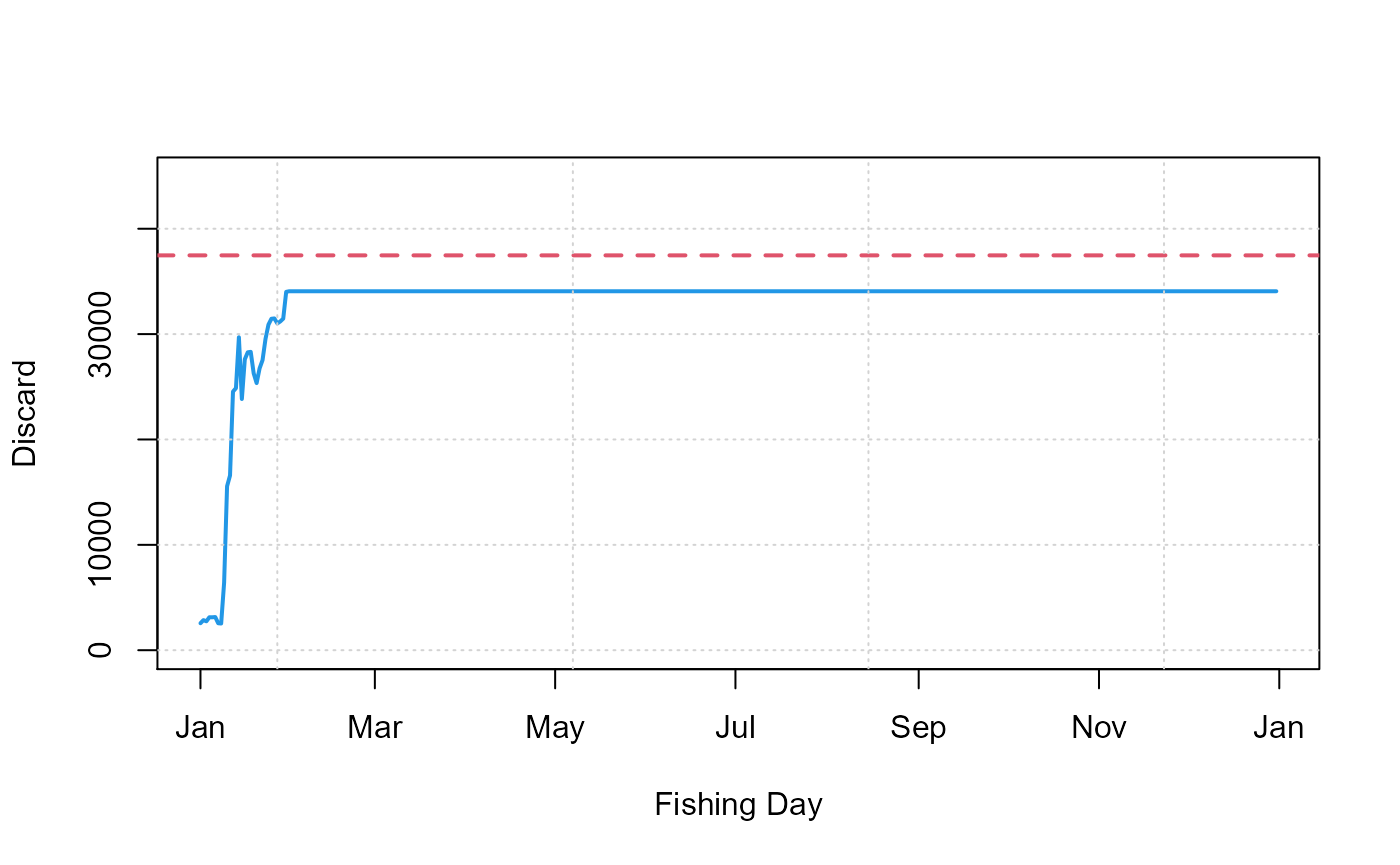
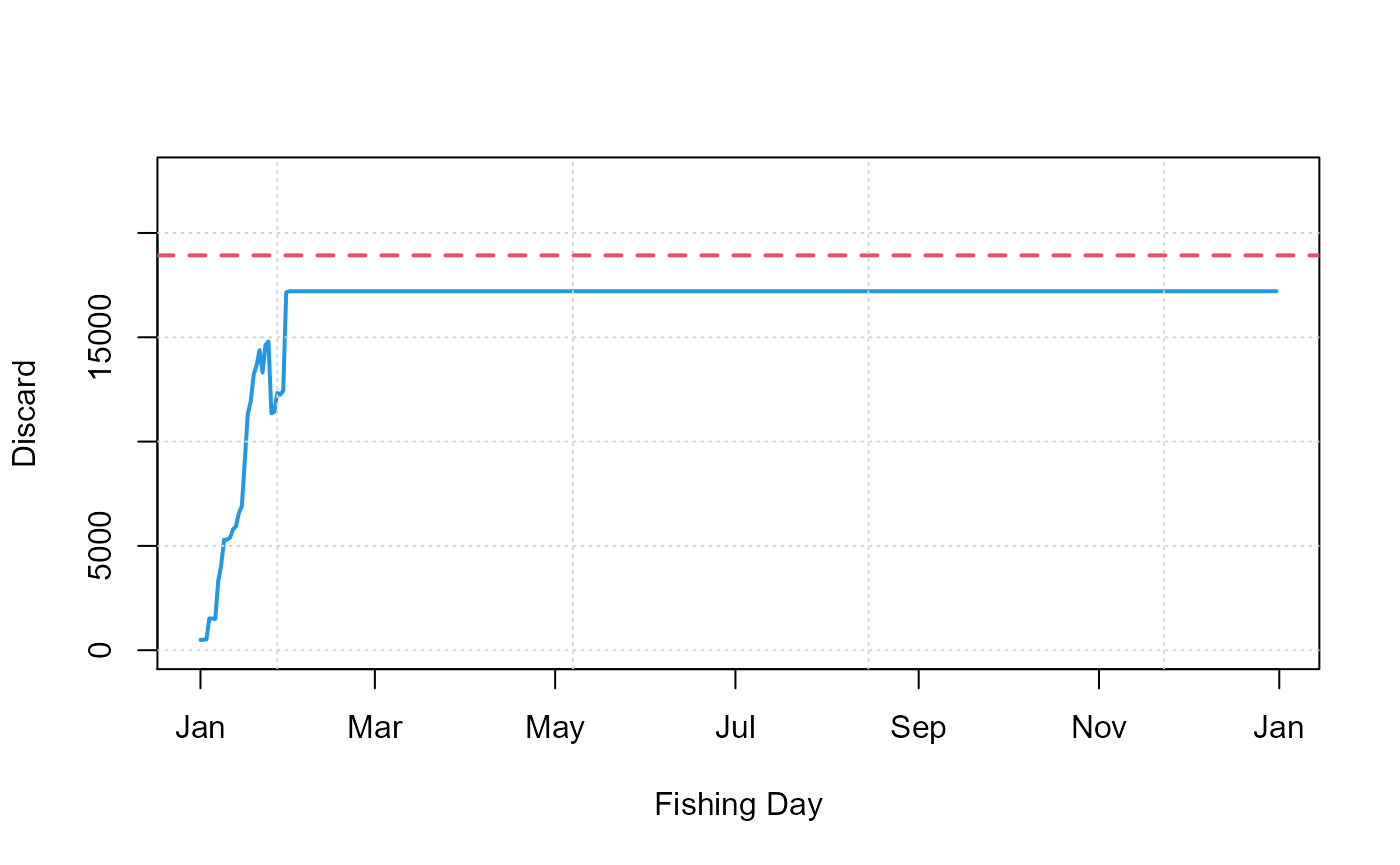
more pkgdown tweaks

diff --git a/docs/articles/eflalo_demo.html b/docs/articles/eflalo_demo.html
@@ -136,7 +136,7 @@
 ##  $ LE_UNIT      : Factor w/ 1 level "KWDAYS": 1 1 1 1 1 1 1 1 1 1 ...
 ##  $ LE_EFF       : num  139.2 148.1 23.9 197.1 72.9 ...
 ##  $ LE_EFF_VMS   : logi  NA NA NA NA NA NA ...
-##  $ OBSFLAG      : num  0 0 0 1 0 0 0 0 0 0 ...
+##  $ OBSFLAG      : num  1 0 0 0 1 0 0 0 0 0 ...
 ##  $ FT_REF2      : int  1 2 3 4 5 6 7 8 9 10 ...
 ##  $ NESPP3       : chr  "LE_KG_ANE" "LE_KG_ANE" "LE_KG_ANE" "LE_KG_ANE" ...
 ##  $ LIVE_POUNDS  : num  0 0 0 0 0 0 0 0 0 0 ...
@@ -191,8 +191,8 @@
 , row.names <span class="op">=</span> <span class="fu"><a href="https://rdrr.io/r/base/c.html">c</a></span><span class="op">(</span><span class="st">'y0'</span>,<span class="st">'y1'</span><span class="op">)</span>
 <span class="op">)</span></code></pre></div>
 <pre><code>##               r     CVTOT
-## y0 7.161076e-05 0.2784574
-## y1 3.496988e-04 0.4428961</code></pre>
+## y0 8.878681e-05 0.6385114
+## y1 3.901893e-05 0.2899111</code></pre>
 </div>
 <div id="run-with-a-transition-rate" class="section level2">
 <h2 class="hasAnchor">
@@ -202,7 +202,7 @@
     <span class="va">dest</span> <span class="op">&lt;-</span> <span class="fu"><a href="../reference/cochran.trans.calc.html">cochran.trans.calc</a></span><span class="op">(</span>bydat_focal <span class="op">=</span> <span class="va">bydat_focal</span>, trips_focal <span class="op">=</span> <span class="va">trips_focal</span>, bydat_prev <span class="op">=</span> <span class="va">bydat_prev</span>, trips_prev <span class="op">=</span> <span class="va">trips_prev</span>, CV_target <span class="op">=</span><span class="fl">.3</span>, strata_name <span class="op">=</span> <span class="st">"STRATA"</span>, strata_complete <span class="op">=</span> <span class="va">strata_complete</span>, time_span <span class="op">=</span> <span class="fu"><a href="https://rdrr.io/r/base/c.html">c</a></span><span class="op">(</span><span class="va">minday</span>, <span class="fl">365</span><span class="op">)</span><span class="op">)</span>
 
 <span class="fu"><a href="https://rdrr.io/r/utils/str.html">str</a></span><span class="op">(</span><span class="va">dest</span><span class="op">$</span><span class="va">D</span><span class="op">)</span></code></pre></div>
-<p>num [1:20, 1:365] 0 0 0 0 0 … - attr(*, “dimnames”)=List of 2 ..$ : chr [1:20] “DRB_MOL_0_0_0” “FPO_CRU_0_0_0” “GNS_DEF_0_0_0” “GNS_DEF_100-119_0_0” … ..$ : chr [1:365] “1” “2” “3” “4” …</p>
+<p>num [1:20, 1:365] 0 0 0 9.62 0 … - attr(*, “dimnames”)=List of 2 ..$ : chr [1:20] “DRB_MOL_0_0_0” “FPO_CRU_0_0_0” “GNS_DEF_0_0_0” “GNS_DEF_100-119_0_0” … ..$ : chr [1:365] “1” “2” “3” “4” …</p>
 </div>
 <div id="plot-the-total-discard" class="section level2">
 <h2 class="hasAnchor">

diff --git a/docs/index.html b/docs/index.html
@@ -85,7 +85,7 @@
 </div>
 <div id="section" class="section level1">
 <h1 class="hasAnchor">
-<a href="#section" class="anchor"></a><img src="reference/figures/logo.png" align="right">
+<a href="#section" class="anchor"></a><img src="docs/apple-touch-icon-180x180.png" align="right">
 </h1>
 <div id="an-r-package-for-calculating-discard-sing-the-cochran-ratio-estimator" class="section level2">
 <h2 class="hasAnchor">

diff --git a/docs/reference/cochran.calc.ss.html b/docs/reference/cochran.calc.ss.html
@@ -198,7 +198,7 @@
 #&gt;         REQ_COV = req_samples/l_N)
 #&gt;     return(output)
 #&gt; }
-#&gt; &lt;bytecode: 0x000000002cf0e730&gt;
+#&gt; &lt;bytecode: 0x000000002cf04208&gt;
 #&gt; &lt;environment: namespace:discaRd&gt;</div></pre>
   </div>
   <div class="col-md-3 hidden-xs hidden-sm" id="pkgdown-sidebar">

diff --git a/docs/reference/cochran.trans.calc.html b/docs/reference/cochran.trans.calc.html
@@ -285,7 +285,7 @@ either number of trips (<code>trans_method='ntrips'</code>)</p></td>
 #&gt;         return(list(D = daily.D))
 #&gt;     }
 #&gt; }
-#&gt; &lt;bytecode: 0x000000002faf3b00&gt;
+#&gt; &lt;bytecode: 0x000000002fb07278&gt;
 #&gt; &lt;environment: namespace:discaRd&gt;</div></pre>
   </div>
   <div class="col-md-3 hidden-xs hidden-sm" id="pkgdown-sidebar">

diff --git a/docs/reference/get.cochran.ss.by.strat.html b/docs/reference/get.cochran.ss.by.strat.html
@@ -236,7 +236,7 @@ desired from the output (including unobserved).</p></td>
 #&gt;     }
 #&gt;     list(C = C, tout = tout, CVTOT = CVTOT, rTOT = rTOT)
 #&gt; }
-#&gt; &lt;bytecode: 0x00000000120fd740&gt;
+#&gt; &lt;bytecode: 0x00000000309e2320&gt;
 #&gt; &lt;environment: namespace:discaRd&gt;</div></pre>
   </div>
   <div class="col-md-3 hidden-xs hidden-sm" id="pkgdown-sidebar">

diff --git a/docs/reference/get.weighted.cv.html b/docs/reference/get.weighted.cv.html
@@ -185,7 +185,7 @@
 #&gt;     targall$SAMPTOT = samptot$SAMPTOT[totidx]
 #&gt;     targall
 #&gt; }
-#&gt; &lt;bytecode: 0x00000000326fae40&gt;
+#&gt; &lt;bytecode: 0x00000000326fd6f8&gt;
 #&gt; &lt;environment: namespace:discaRd&gt;</div></pre>
   </div>
   <div class="col-md-3 hidden-xs hidden-sm" id="pkgdown-sidebar">

diff --git a/docs/reference/setup.parallel.html b/docs/reference/setup.parallel.html
@@ -153,7 +153,7 @@
 #&gt;     cat(paste("\nUsing", n.cores, "cores for parallel processing."))
 #&gt;     mcoptions
 #&gt; }
-#&gt; &lt;bytecode: 0x000000002bc5a3c8&gt;
+#&gt; &lt;bytecode: 0x000000002bc61b30&gt;
 #&gt; &lt;environment: namespace:discaRd&gt;</div></pre>
   </div>
   <div class="col-md-3 hidden-xs hidden-sm" id="pkgdown-sidebar">

diff --git a/docs/reference/vary.bigN.html b/docs/reference/vary.bigN.html
@@ -164,7 +164,7 @@
 #&gt;     names(s)[4:5] = c("RE_se", "RE_rse")
 #&gt;     s
 #&gt; }
-#&gt; &lt;bytecode: 0x0000000012eafa80&gt;
+#&gt; &lt;bytecode: 0x0000000030f34f18&gt;
 #&gt; &lt;environment: namespace:discaRd&gt;</div></pre>
   </div>
   <div class="col-md-3 hidden-xs hidden-sm" id="pkgdown-sidebar">